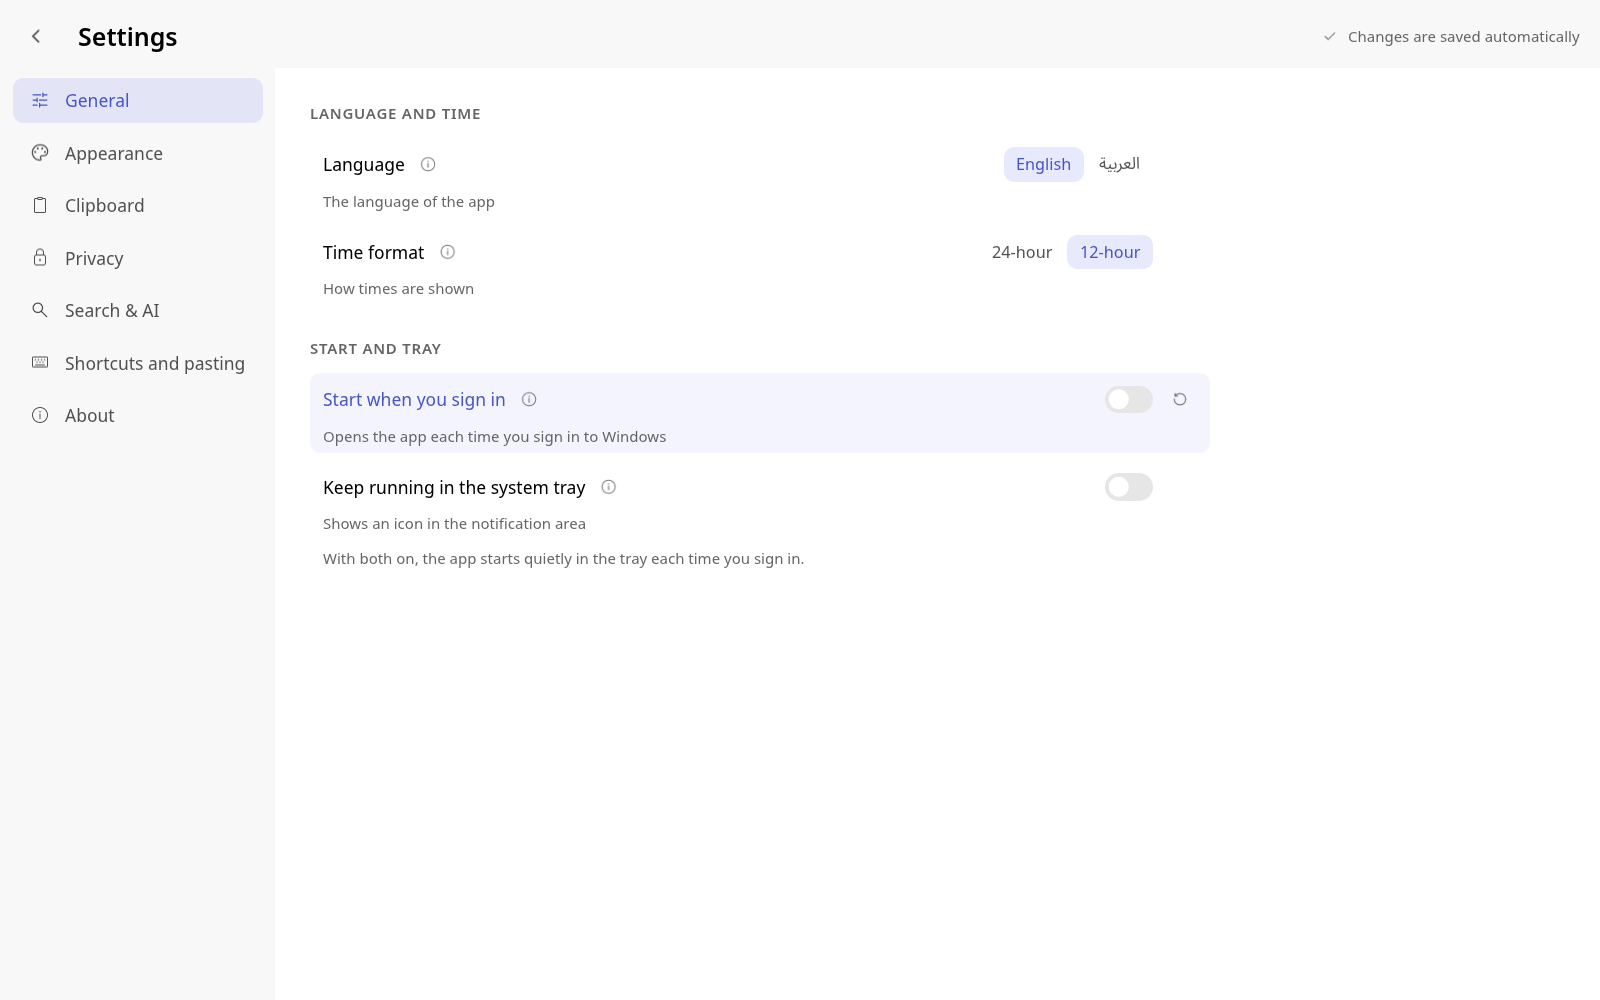
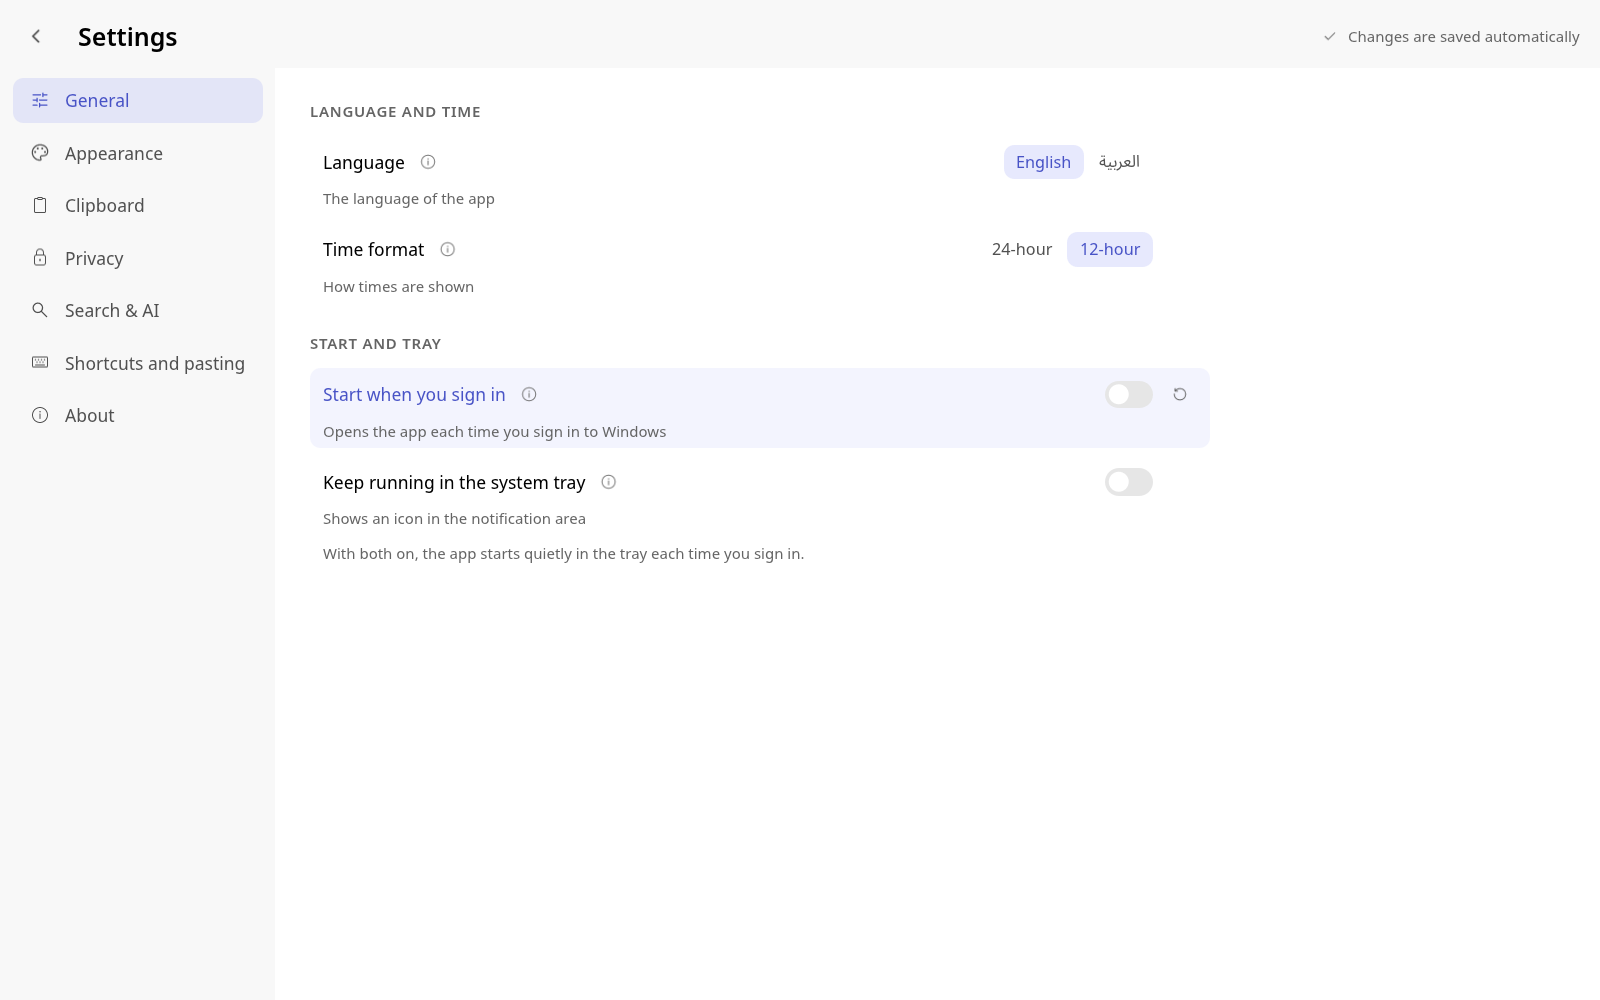
Retake the screenshots for 0.7.0
The same made-up items and window size as for 0.6.0, so the pictures
show the new corners, gaps and filter counts. The social preview uses
the new Grid picture.

diff --git a/docs/WORK-PLAN.md b/docs/WORK-PLAN.md
@@ -278,7 +278,7 @@ use; then the look, motion and smaller changes; and the README, bug reports and 
 - [x] 20.2 The log's first line gives the version, the build and the Windows version, without your user name; item ids and times on reading and indexing lines
 - [x] 20.3 About: Copy details for a bug report
 - [x] 20.5 A warning when the history is 90% full, with Change the limit (D64)
-- [~] 20.4 New screenshots, the change log and version 0.7.0: the notes and the version are in; the screenshots wait for a dev build
+- [x] 20.4 New screenshots, the change log and version 0.7.0
 
 ## Change log
 
